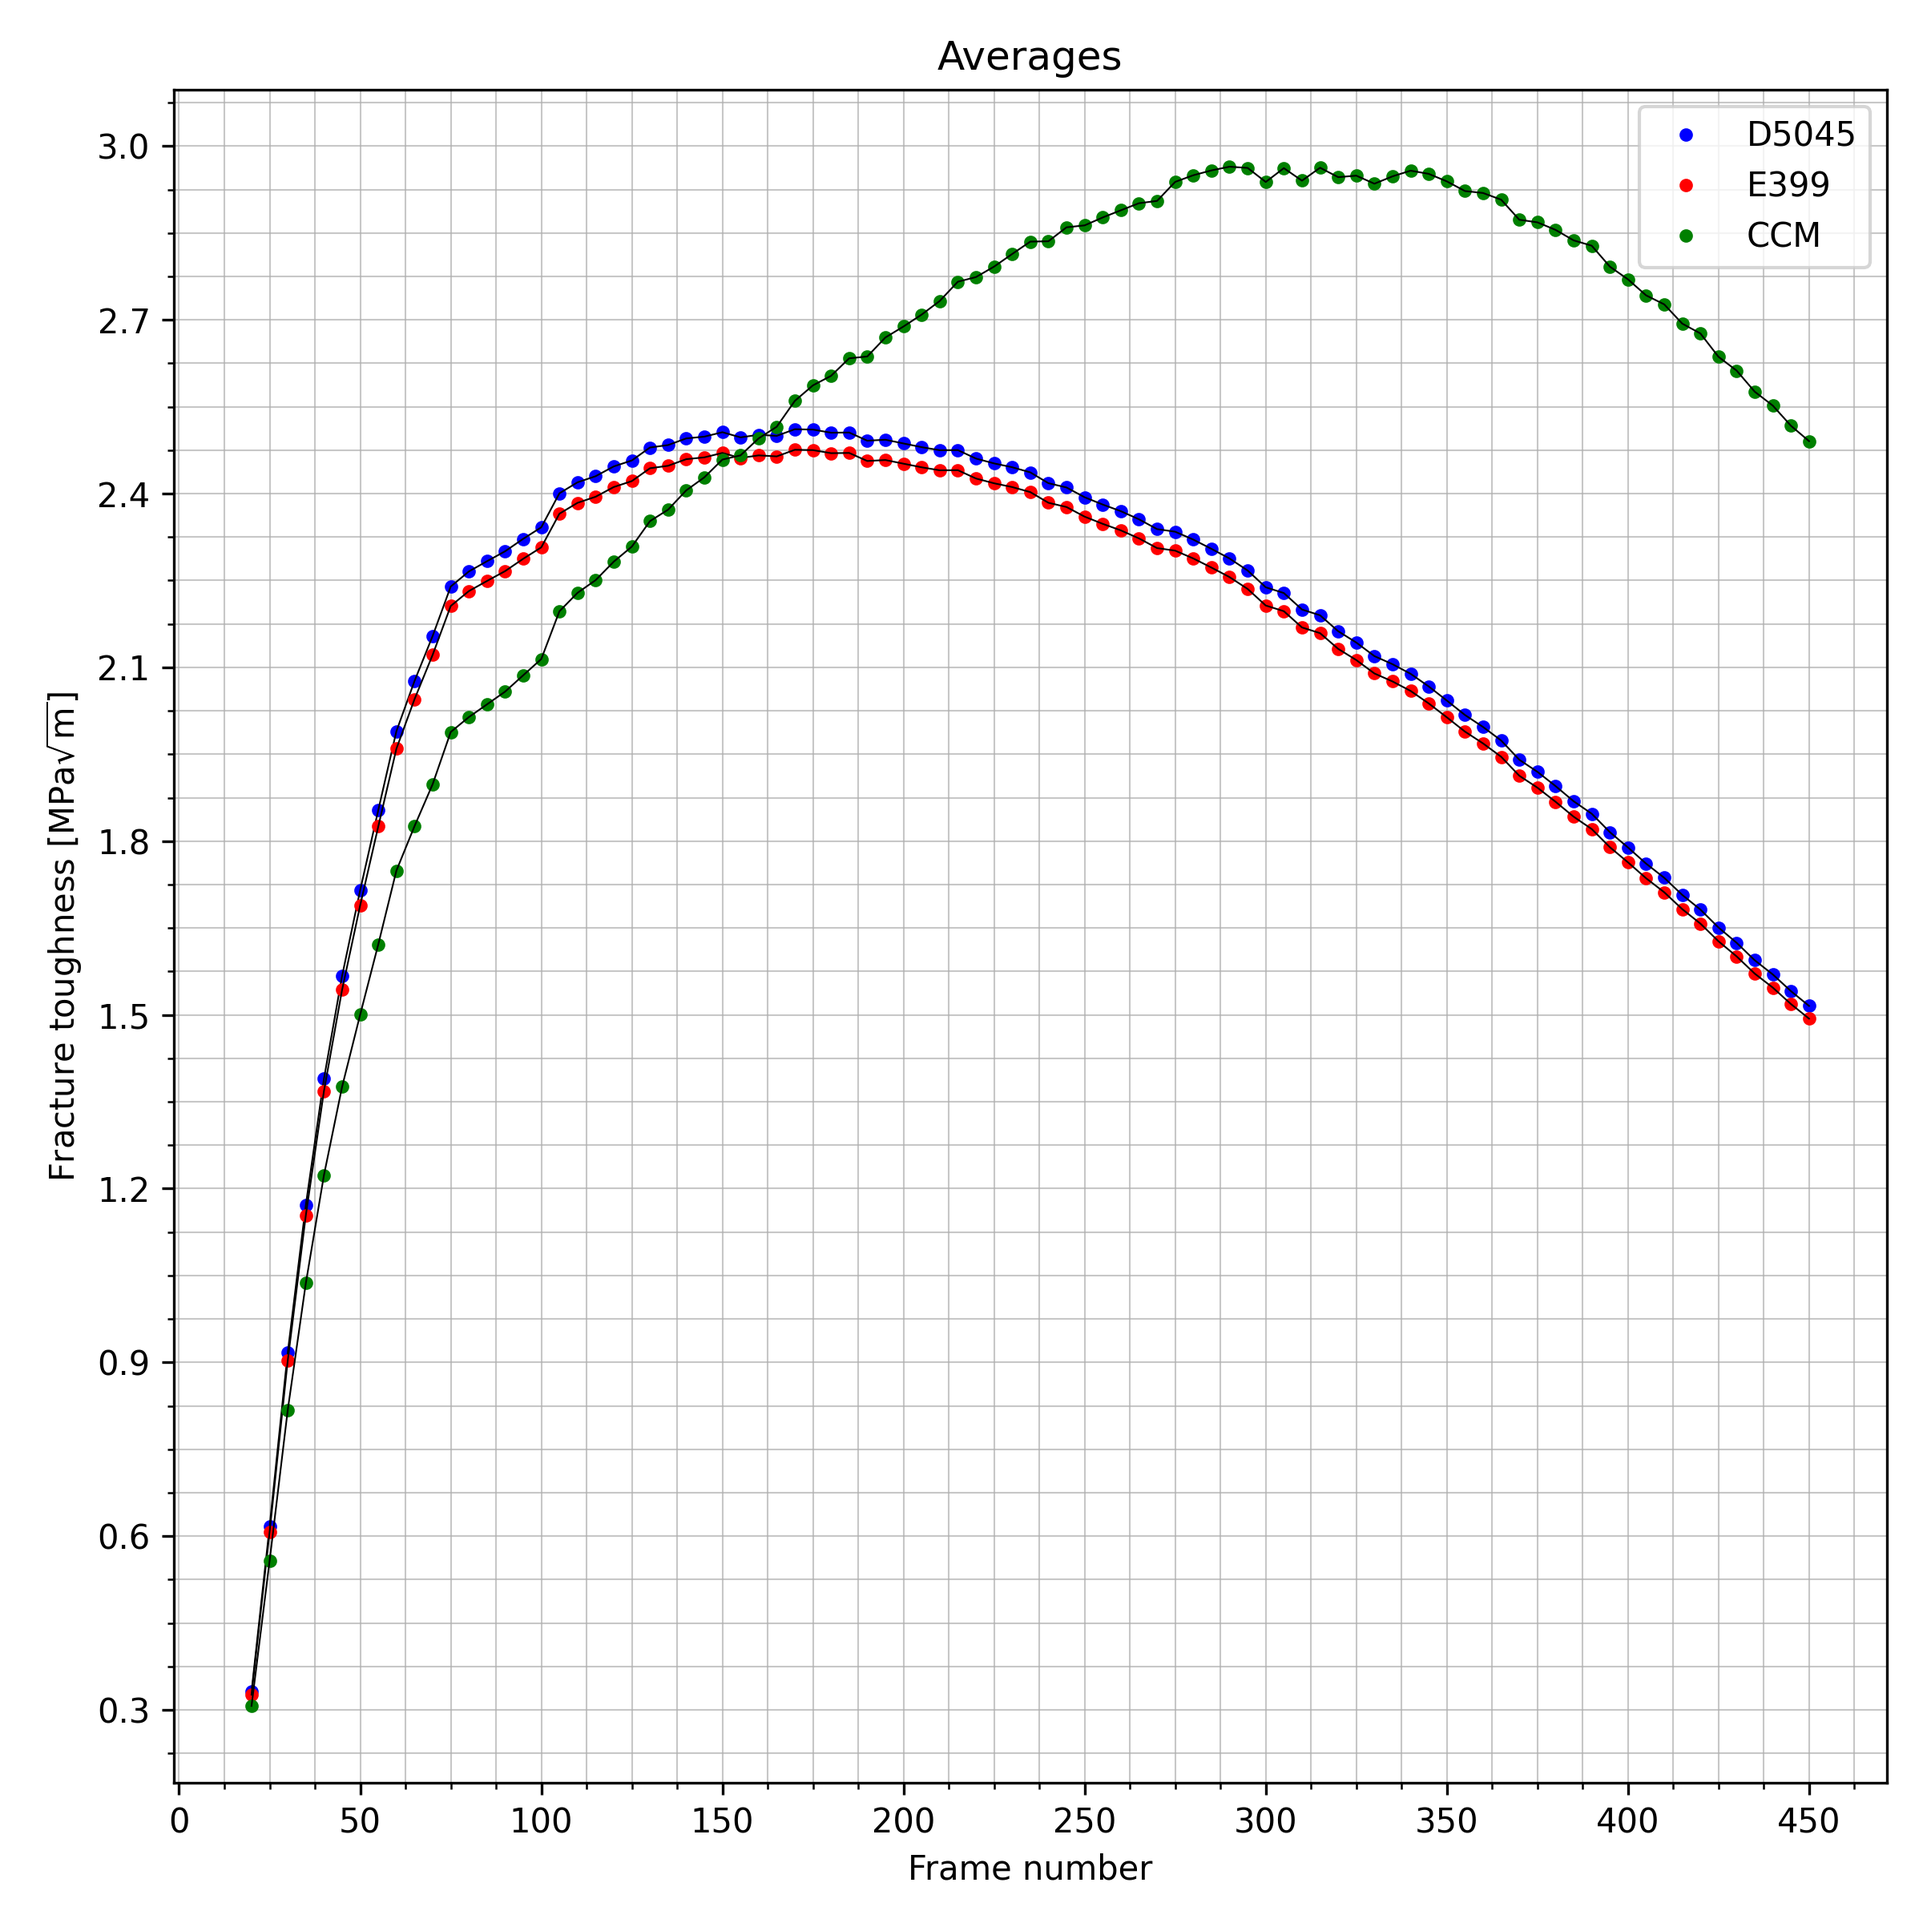
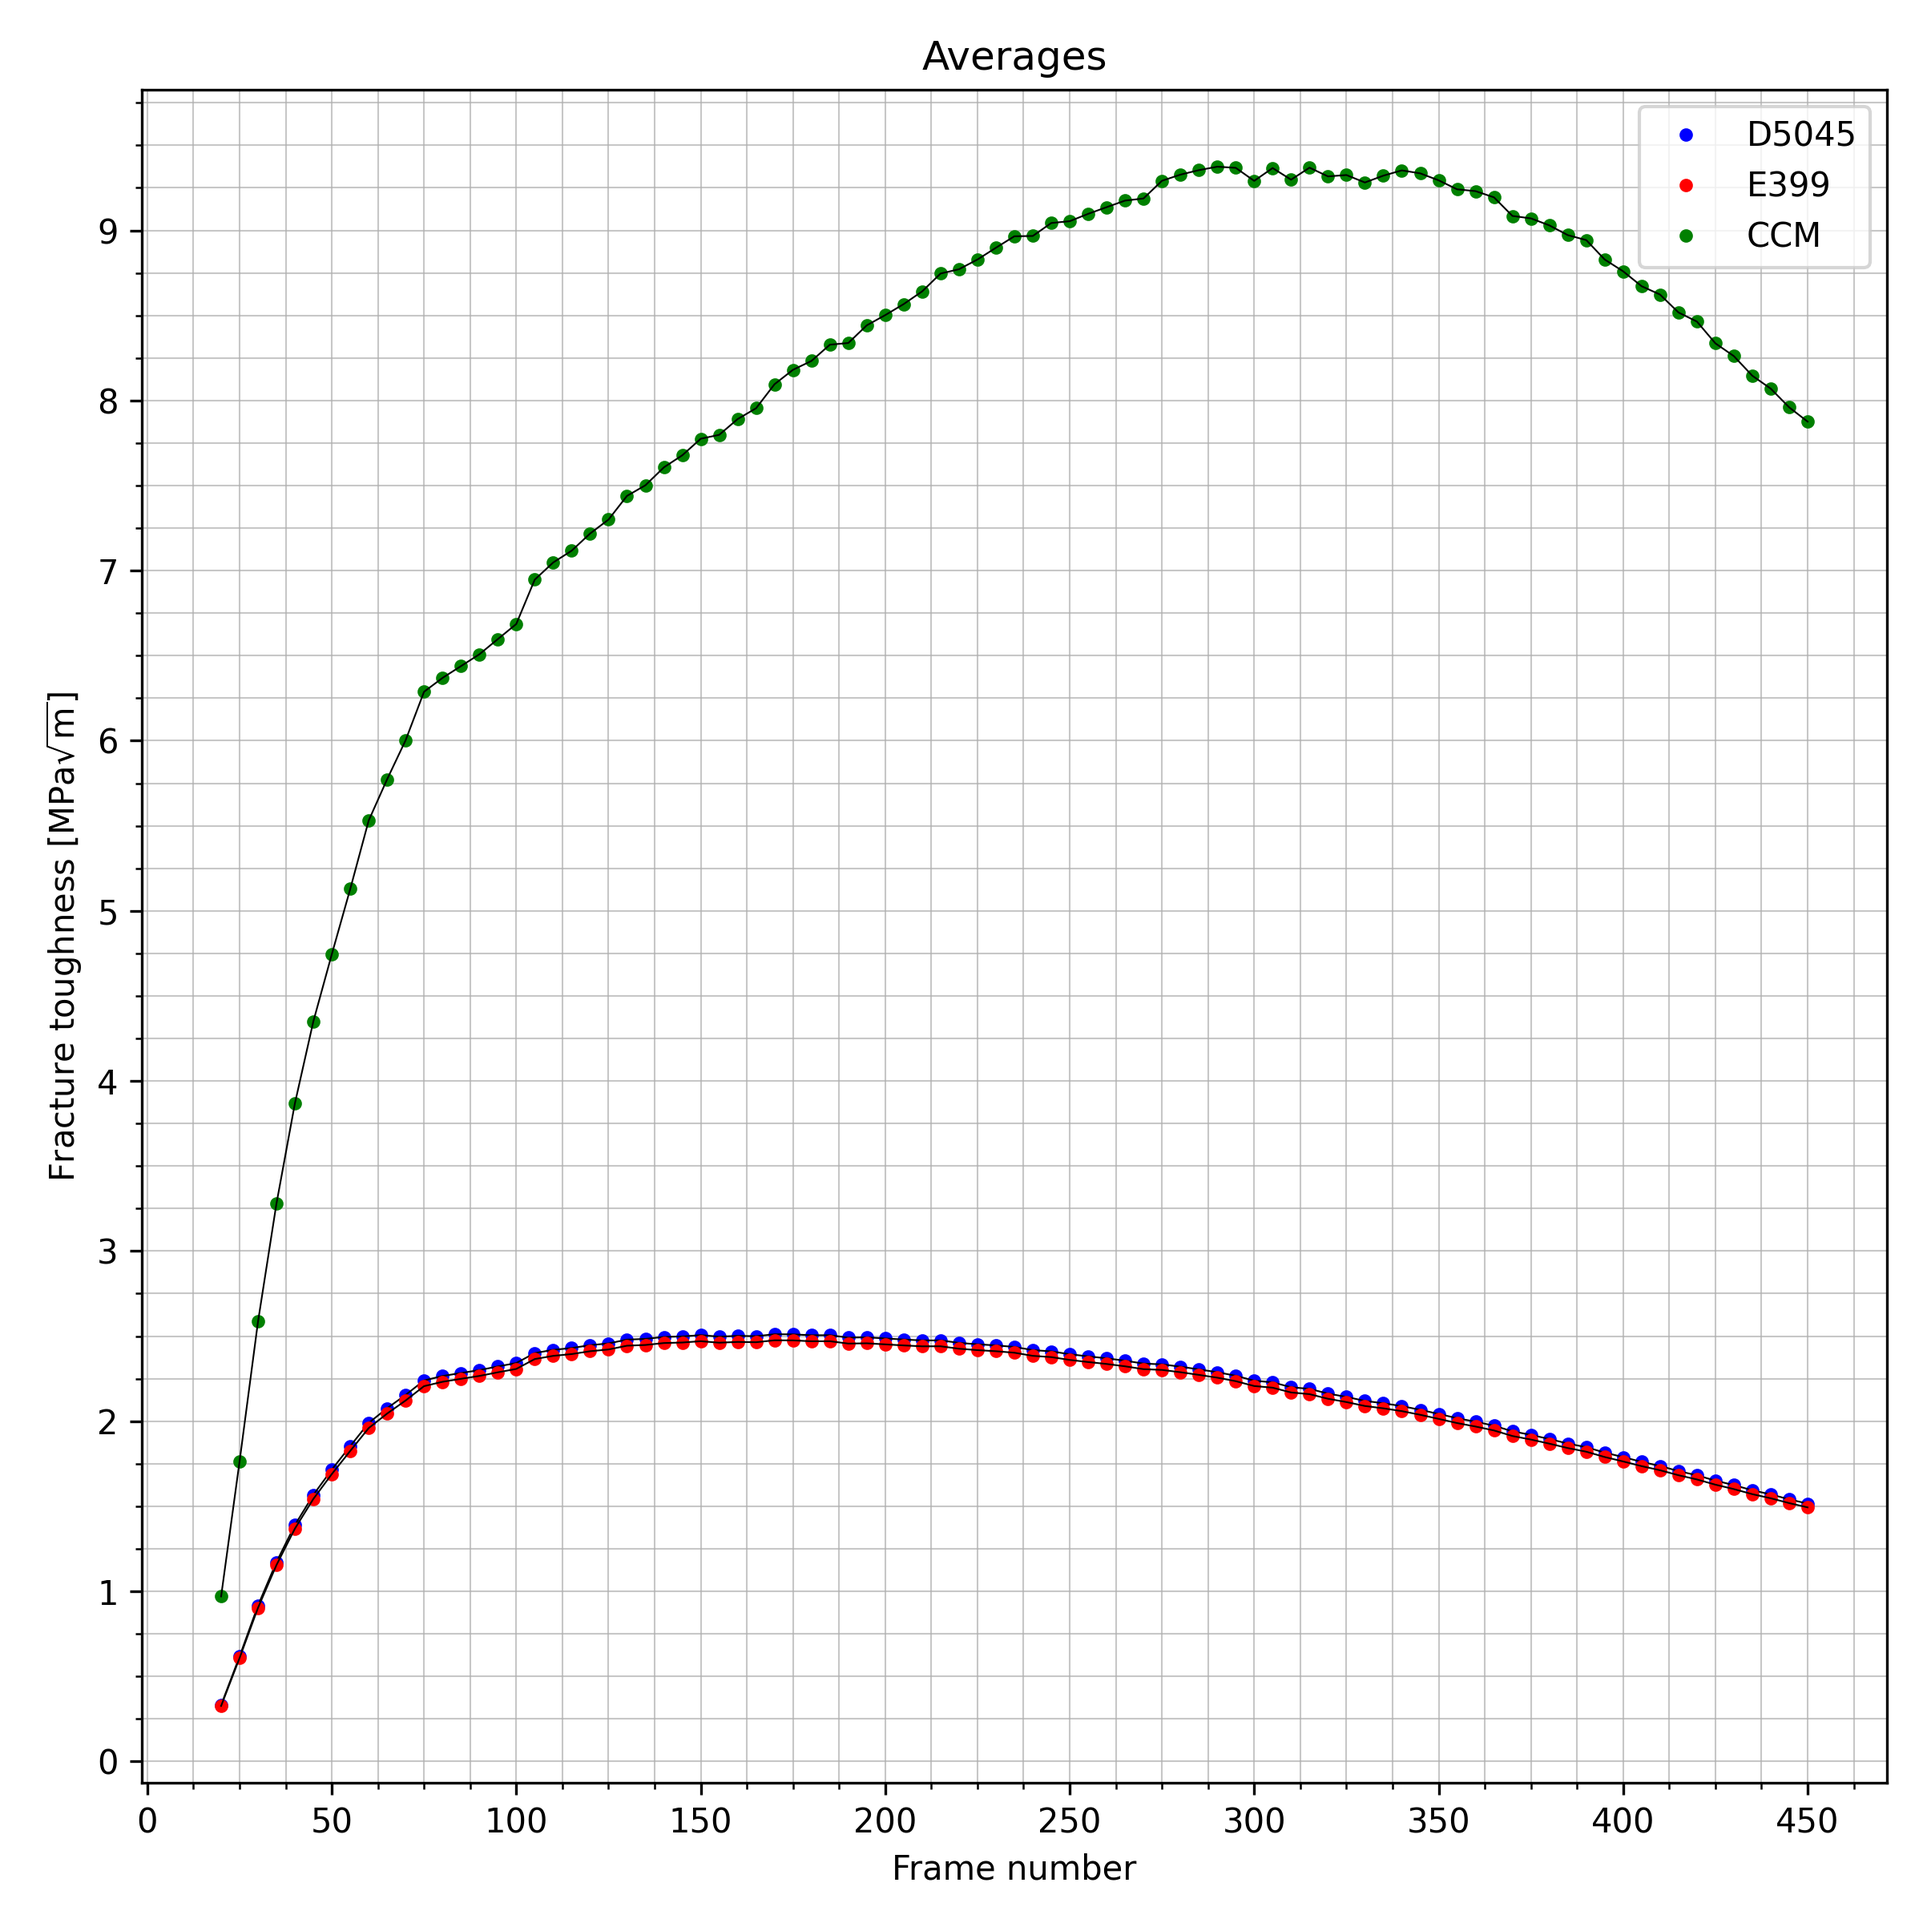
234er

Changed region(s): [[0.0625, 0.0, 0.9688, 1.0], [0.3438, 0.9375, 0.375, 0.9688]]

diff --git a/main.py b/main.py
@@ -79,7 +79,9 @@ def reduced_plot_including_area_method():
         method_d5045=d5045.fracture_toughnesses(sample_number)
         method_e399=e399.fracture_toughnesses(sample_number)
         method_area=area.fracture_toughnesses(sample_number)
-        method_ccm=ccm.fracture_toughnesses(sample_number)
+        method_ccm=ccm.fracture_toughnesses(sample_number)[0]
+
+        G_IC_method_cmm = ccm.fracture_toughnesses(sample_number)[1]
 
         ax = axs[sample_number - 1]  # Index starts from 0
     
@@ -122,7 +124,7 @@ def plot_excluding_area_method():
         method_d5045=d5045.fracture_toughnesses(sample_number)
         method_e399=e399.fracture_toughnesses(sample_number)
         method_area=area.fracture_toughnesses(sample_number)
-        method_ccm=ccm.fracture_toughnesses(sample_number)
+        method_ccm=ccm.fracture_toughnesses(sample_number)[0]
 
         ax = axs[sample_number - 1]  # Index starts from 0
     
@@ -163,7 +165,7 @@ def average_excluding_area_method():
         method_d5045=d5045.fracture_toughnesses(sample_number)
         method_e399=e399.fracture_toughnesses(sample_number)
         #method_area=area.fracture_toughnesses(sample_number)
-        method_ccm=ccm.fracture_toughnesses(sample_number)
+        method_ccm=ccm.fracture_toughnesses(sample_number)[0]
         
         average=(np.array(method_d5045)+np.array(method_e399)*1e-6+np.array(method_ccm))/3
         ax = axs[sample_number - 1]  # Index starts from 0
@@ -196,7 +198,7 @@ def averages():
     average_method_d5045=(np.array(d5045.fracture_toughnesses(1))+np.array(d5045.fracture_toughnesses(2))+np.array(d5045.fracture_toughnesses(3)))/3
     average_method_e399=(np.array(e399.fracture_toughnesses(1))+np.array(e399.fracture_toughnesses(2))+np.array(e399.fracture_toughnesses(3)))/3
     #average_method_area=(np.array(area.fracture_toughnesses(1))+np.array(area.fracture_toughnesses(2))+np.array(area.fracture_toughnesses(3)))/3
-    average_method_ccm=(np.array(ccm.fracture_toughnesses(1))+np.array(ccm.fracture_toughnesses(2))+np.array(ccm.fracture_toughnesses(3)))/3
+    average_method_ccm=(np.array(ccm.fracture_toughnesses(1)[0])+np.array(ccm.fracture_toughnesses(2)[0])+np.array(ccm.fracture_toughnesses(3)[0]))/3
     
     
 
@@ -277,7 +279,7 @@ def percentage():
     average_method_d5045=(np.array(d5045.fracture_toughnesses(1))+np.array(d5045.fracture_toughnesses(2))+np.array(d5045.fracture_toughnesses(3)))/3
     average_method_e399=1e-6*(np.array(e399.fracture_toughnesses(1))+np.array(e399.fracture_toughnesses(2))+np.array(e399.fracture_toughnesses(3)))/3
     # average_method_area=(np.array(area.fracture_toughnesses(1))+np.array(area.fracture_toughnesses(2))+np.array(area.fracture_toughnesses(3)))/3
-    average_method_ccm=(np.array(ccm.fracture_toughnesses(1))+np.array(ccm.fracture_toughnesses(2))+np.array(ccm.fracture_toughnesses(3)))/3
+    average_method_ccm=(np.array(ccm.fracture_toughnesses(1)[0])+np.array(ccm.fracture_toughnesses(2)[0])+np.array(ccm.fracture_toughnesses(3)[0]))/3
     
     perentage_1=abs(100*(average_method_d5045-average_method_e399)/average_method_e399)
     percentage_2=abs(100*(average_method_d5045-average_method_e399)/average_method_e399)
@@ -321,10 +323,10 @@ def percentage():
 #plot_including_area_method()
 #reduced_plot_including_area_method()
 #average_excluding_area_method()
-#averages()
+averages()
 # absolute_differences()
 #percentage()
-averages()
+#averages()
 
 
 

diff --git a/ComplianceCalibrationMethod.py b/ComplianceCalibrationMethod.py
@@ -15,7 +15,7 @@ def fracture_toughnesses(sample_number):
     compl = []
 
     for i in range(6,len(array)-2):
-        compl.append(compliance(i,array)/1000)
+        compl.append(compliance(i,array))
 
     def calculate_compliance():
         return compl
@@ -93,8 +93,6 @@ def fracture_toughnesses(sample_number):
     def G_IC(a, P_crit, alpha, beta, chi, thickness):
         return (P_crit ** 2) / (2 * thickness) * derivative(a,alpha,beta,chi,h)
 
-    def G_IC2(a,P_crit,alpha,beta,chi,thickness,dPda):
-        return dPda * P_crit * (alpha * a + beta)**chi / thickness
 
     # * alpha * chi * (alpha * a + beta) ** (chi -1)
     #print(f"Critical load {P_crit} N")
@@ -113,11 +111,8 @@ def fracture_toughnesses(sample_number):
     #print(crack_lengths)
     K_ICs = []
     for i in range(len(loads)):
-        if i < len(loads)-1:
-            dPda = (loads[i+1]-loads[i])/(crack_lengths[i+1]-crack_lengths[i]+0.00001)
-        else:
-            dPda = 0
-        G = G_IC(crack_lengths[i], loads_new[i], alpha, beta, chi, thickness) + G_IC2(crack_lengths[i], loads_new[i], alpha, beta, chi, thickness, dPda)
+
+        G = G_IC(crack_lengths[i], loads_new[i], alpha, beta, chi, thickness)
         K_ICs.append(fracture_toughness(G, E, 0.3)/(10 ** 6))
 
     iter = []
@@ -130,7 +125,7 @@ def fracture_toughnesses(sample_number):
     ###plt.ylabel('Energy release rate [J/m^2]')
     ###plt.show()
 
-
+    print(alpha, beta, chi)
     # CRITICAL G_IC AND K_IC VALUES
     crit_G_IC = (P_crit ** 2) / (2 * thickness) * derivative(critical_crack_length,alpha,beta,chi,h)
     crit_K_IC = fracture_toughness(crit_G_IC, E, 0.3)
@@ -138,15 +133,11 @@ def fracture_toughnesses(sample_number):
     #print(f"Critical crack length is {critical_crack_length} m")
     print(f"Critical G_IC: {crit_G_IC} J/m^2. Critical K_IC: {crit_K_IC/(10**6)} MPam^0.5")
 
-    print(len(G_IC_list), len(array))
-    G_IC = []
-    for i in range(len(G_IC_list)):
-        for k in range(5):
-            G_IC.append(G_IC_list[i])
+    #print(len(G_IC_list), len(array))
 
 
-
-    return K_ICs
+    print(len(K_ICs), len(G_IC_list))
+    return K_ICs, G_IC_list
 
 
 fracture_toughnesses(1)

diff --git a/DeterminingCompliance.py b/DeterminingCompliance.py
@@ -3,13 +3,17 @@ import math
 import readData as rd
 import matplotlib.pyplot as plt
 
-sample_number = 1
+sample_number = 2
+
+
 
 array = rd.load_displacement_curve(sample_number)
+
+print(array)
 print(array[i][0] for i in range(0,50))
 def compliance(n,arr):
-    if (arr[n][1]-8.090e-04)/arr[n][0] > 0:
-        return (arr[n][1]-8.090e-04)/arr[n][0]
+    if (arr[n][1])/arr[n][0] > 0:
+        return (arr[n][1])/arr[n][0]
     else:
         return 0
 
@@ -22,7 +26,7 @@ compl = []
     #print(array[i])
 for i in range(6,len(array)-2):
     #print(i)
-    compl.append(float(compliance(i,array)/1000))
+    compl.append(float(compliance(i,array)))
 #print(compl)
 
 
